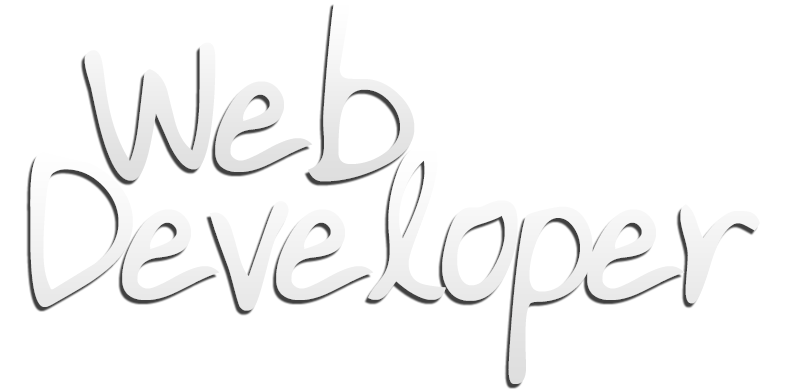
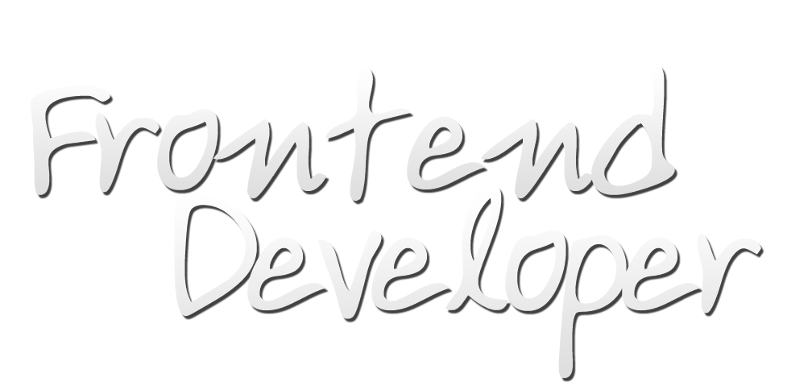
change 'web developer' to 'frontend developer'

diff --git a/index.html b/index.html
@@ -49,7 +49,7 @@
 		<header class="homeheading"><h2>
 			<a class="scroll" href="#skills">
 			<img class="titleimage" src="img/title-i-am.png" alt="I am a" />
-			<img class="titleimage" src="img/title-web-developer.png" alt="Web Developer" title="Web Developer title image" />
+			<img class="titleimage" src="img/title-web-developer.png" alt="Frontend Developer" title="Frontend Developer title image" />
 			<img class="titleimage" src="img/title-obsessed.png" alt="obsessed with clean, elegant code" />
 			</a>
 		</h2></header>
